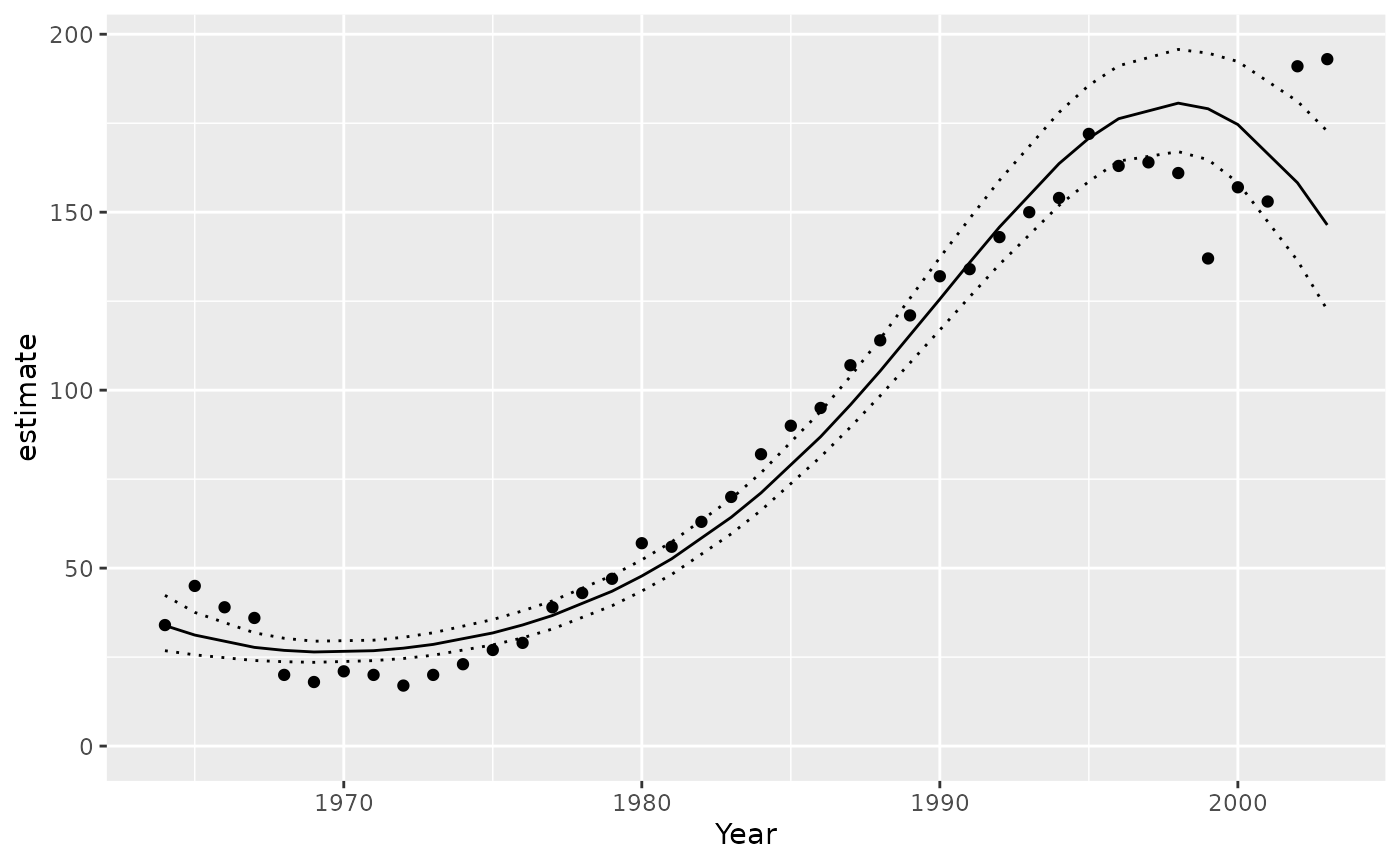
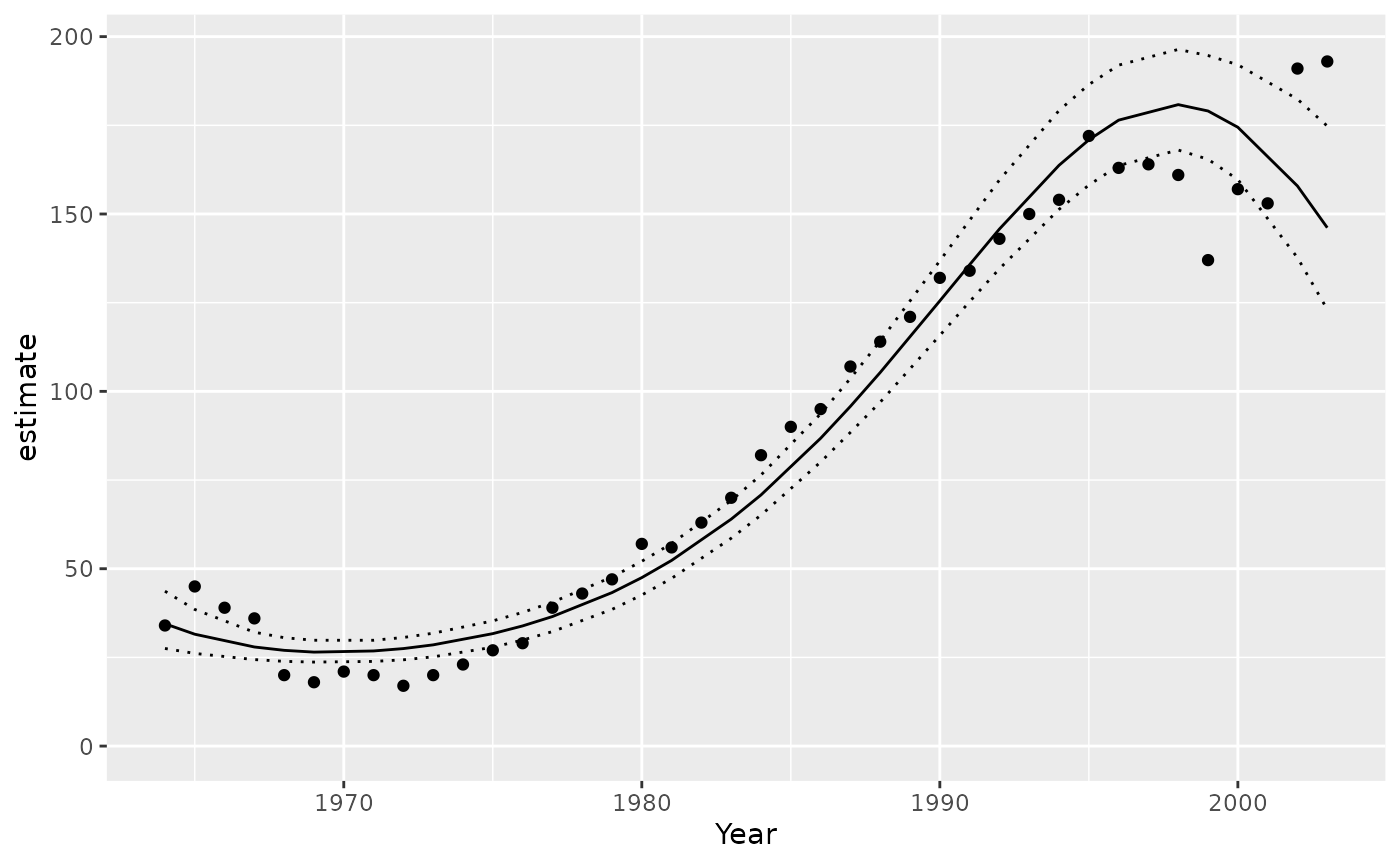
Deploying to gh-pages from @ poissonconsulting/jmbr@09f25077c4385a56795382860bf2d0ebca6aba67 🚀

diff --git a/articles/jmbr.html b/articles/jmbr.html
@@ -290,14 +290,14 @@ value and discarding all other values.</p>
 <span><span class="co">#&gt; <span style="color: #949494;"># A tibble: 1 × 8</span></span></span>
 <span><span class="co">#&gt;       n     K nchains niters nthin   ess  rhat converged</span></span>
 <span><span class="co">#&gt;   <span style="color: #949494; font-style: italic;">&lt;int&gt;</span> <span style="color: #949494; font-style: italic;">&lt;int&gt;</span>   <span style="color: #949494; font-style: italic;">&lt;int&gt;</span>  <span style="color: #949494; font-style: italic;">&lt;int&gt;</span> <span style="color: #949494; font-style: italic;">&lt;int&gt;</span> <span style="color: #949494; font-style: italic;">&lt;int&gt;</span> <span style="color: #949494; font-style: italic;">&lt;dbl&gt;</span> <span style="color: #949494; font-style: italic;">&lt;lgl&gt;</span>    </span></span>
-<span><span class="co">#&gt; <span style="color: #BCBCBC;">1</span>    40     6       3    500    10   220  1.01 TRUE</span></span>
+<span><span class="co">#&gt; <span style="color: #BCBCBC;">1</span>    40     6       3    500    10   192  1.01 TRUE</span></span>
 <span><span class="co">#&gt; Warning in value[[3L]](cond): beep() could not play the sound due to the following error:</span></span>
 <span><span class="co">#&gt; Error in play.default(x, rate, ...): no audio drivers are available</span></span>
 <span><span class="va">analysis</span> <span class="op">&lt;-</span> <span class="fu"><a href="https://rdrr.io/pkg/embr/man/reanalyse.html" class="external-link">reanalyse</a></span><span class="op">(</span><span class="va">analysis</span><span class="op">)</span></span>
 <span><span class="co">#&gt; <span style="color: #949494;"># A tibble: 1 × 8</span></span></span>
 <span><span class="co">#&gt;       n     K nchains niters nthin   ess  rhat converged</span></span>
 <span><span class="co">#&gt;   <span style="color: #949494; font-style: italic;">&lt;int&gt;</span> <span style="color: #949494; font-style: italic;">&lt;int&gt;</span>   <span style="color: #949494; font-style: italic;">&lt;int&gt;</span>  <span style="color: #949494; font-style: italic;">&lt;int&gt;</span> <span style="color: #949494; font-style: italic;">&lt;int&gt;</span> <span style="color: #949494; font-style: italic;">&lt;int&gt;</span> <span style="color: #949494; font-style: italic;">&lt;dbl&gt;</span> <span style="color: #949494; font-style: italic;">&lt;lgl&gt;</span>    </span></span>
-<span><span class="co">#&gt; <span style="color: #BCBCBC;">1</span>    40     6       3    500    10   220  1.01 TRUE</span></span>
+<span><span class="co">#&gt; <span style="color: #BCBCBC;">1</span>    40     6       3    500    10   192  1.01 TRUE</span></span>
 <span><span class="co">#&gt; Warning in value[[3L]](cond): beep() could not play the sound due to the following error:</span></span>
 <span><span class="co">#&gt; Error in play.default(x, rate, ...): no audio drivers are available</span></span></code></pre></div>
 <p><strong>Analysis Table:</strong></p>
@@ -347,12 +347,12 @@ between- and within-chain estimates for model parameters.
 <span><span class="co">#&gt; <span style="color: #949494;"># A tibble: 6 × 7</span></span></span>
 <span><span class="co">#&gt;   term        estimate     sd  zscore   lower   upper   pvalue</span></span>
 <span><span class="co">#&gt;   <span style="color: #949494; font-style: italic;">&lt;term&gt;</span>         <span style="color: #949494; font-style: italic;">&lt;dbl&gt;</span>  <span style="color: #949494; font-style: italic;">&lt;dbl&gt;</span>   <span style="color: #949494; font-style: italic;">&lt;dbl&gt;</span>   <span style="color: #949494; font-style: italic;">&lt;dbl&gt;</span>   <span style="color: #949494; font-style: italic;">&lt;dbl&gt;</span>    <span style="color: #949494; font-style: italic;">&lt;dbl&gt;</span></span></span>
-<span><span class="co">#&gt; <span style="color: #BCBCBC;">1</span> alpha         4.26   0.038<span style="text-decoration: underline;">2</span> 112.     4.19    4.34   0.000<span style="text-decoration: underline;">666</span></span></span>
-<span><span class="co">#&gt; <span style="color: #BCBCBC;">2</span> beta1         1.19   0.072<span style="text-decoration: underline;">5</span>  16.4    1.05    1.34   0.000<span style="text-decoration: underline;">666</span></span></span>
-<span><span class="co">#&gt; <span style="color: #BCBCBC;">3</span> beta2        -<span style="color: #BB0000;">0.020</span><span style="color: #BB0000; text-decoration: underline;">5</span> 0.029<span style="text-decoration: underline;">9</span>  -<span style="color: #BB0000;">0.692</span> -<span style="color: #BB0000;">0.082</span><span style="color: #BB0000; text-decoration: underline;">3</span>  0.039<span style="text-decoration: underline;">9</span> 0.487   </span></span>
-<span><span class="co">#&gt; <span style="color: #BCBCBC;">4</span> beta3        -<span style="color: #BB0000;">0.271</span>  0.037<span style="text-decoration: underline;">8</span>  -<span style="color: #BB0000;">7.16</span>  -<span style="color: #BB0000;">0.349</span>  -<span style="color: #BB0000;">0.198</span>  0.000<span style="text-decoration: underline;">666</span></span></span>
-<span><span class="co">#&gt; <span style="color: #BCBCBC;">5</span> log_sAnnual  -<span style="color: #BB0000;">2.25</span>   0.379   -<span style="color: #BB0000;">6.08</span>  -<span style="color: #BB0000;">3.27</span>   -<span style="color: #BB0000;">1.75</span>   0.000<span style="text-decoration: underline;">666</span></span></span>
-<span><span class="co">#&gt; <span style="color: #BCBCBC;">6</span> sAnnual       0.106  0.032<span style="text-decoration: underline;">9</span>   3.22   0.037<span style="text-decoration: underline;">8</span>  0.174  0.000<span style="text-decoration: underline;">666</span></span></span></code></pre></div>
+<span><span class="co">#&gt; <span style="color: #BCBCBC;">1</span> alpha         4.26   0.040<span style="text-decoration: underline;">5</span> 105.     4.18    4.34   0.000<span style="text-decoration: underline;">666</span></span></span>
+<span><span class="co">#&gt; <span style="color: #BCBCBC;">2</span> beta1         1.19   0.076<span style="text-decoration: underline;">4</span>  15.7    1.05    1.36   0.000<span style="text-decoration: underline;">666</span></span></span>
+<span><span class="co">#&gt; <span style="color: #BCBCBC;">3</span> beta2        -<span style="color: #BB0000;">0.015</span><span style="color: #BB0000; text-decoration: underline;">7</span> 0.031<span style="text-decoration: underline;">3</span>  -<span style="color: #BB0000;">0.517</span> -<span style="color: #BB0000;">0.075</span><span style="color: #BB0000; text-decoration: underline;">5</span>  0.044<span style="text-decoration: underline;">9</span> 0.596   </span></span>
+<span><span class="co">#&gt; <span style="color: #BCBCBC;">4</span> beta3        -<span style="color: #BB0000;">0.273</span>  0.039<span style="text-decoration: underline;">8</span>  -<span style="color: #BB0000;">6.92</span>  -<span style="color: #BB0000;">0.361</span>  -<span style="color: #BB0000;">0.201</span>  0.000<span style="text-decoration: underline;">666</span></span></span>
+<span><span class="co">#&gt; <span style="color: #BCBCBC;">5</span> log_sAnnual  -<span style="color: #BB0000;">2.24</span>   0.324   -<span style="color: #BB0000;">7.01</span>  -<span style="color: #BB0000;">3.06</span>   -<span style="color: #BB0000;">1.74</span>   0.000<span style="text-decoration: underline;">666</span></span></span>
+<span><span class="co">#&gt; <span style="color: #BCBCBC;">6</span> sAnnual       0.106  0.031<span style="text-decoration: underline;">9</span>   3.39   0.047<span style="text-decoration: underline;">0</span>  0.175  0.000<span style="text-decoration: underline;">666</span></span></span></code></pre></div>
 <p>The estimate is the <strong>median</strong> by default.</p>
 <p>The zscore is <span class="math inline">\(mean / sd\)</span>.</p>
 <div class="sourceCode" id="cb12"><pre class="downlit sourceCode r">
@@ -360,12 +360,12 @@ between- and within-chain estimates for model parameters.
 <span><span class="co">#&gt; <span style="color: #949494;"># A tibble: 6 × 5</span></span></span>
 <span><span class="co">#&gt;   term        estimate   lower   upper svalue</span></span>
 <span><span class="co">#&gt;   <span style="color: #949494; font-style: italic;">&lt;term&gt;</span>         <span style="color: #949494; font-style: italic;">&lt;dbl&gt;</span>   <span style="color: #949494; font-style: italic;">&lt;dbl&gt;</span>   <span style="color: #949494; font-style: italic;">&lt;dbl&gt;</span>  <span style="color: #949494; font-style: italic;">&lt;dbl&gt;</span></span></span>
-<span><span class="co">#&gt; <span style="color: #BCBCBC;">1</span> alpha         4.26    4.19    4.34    10.6 </span></span>
-<span><span class="co">#&gt; <span style="color: #BCBCBC;">2</span> beta1         1.19    1.05    1.34    10.6 </span></span>
-<span><span class="co">#&gt; <span style="color: #BCBCBC;">3</span> beta2        -<span style="color: #BB0000;">0.020</span><span style="color: #BB0000; text-decoration: underline;">5</span> -<span style="color: #BB0000;">0.082</span><span style="color: #BB0000; text-decoration: underline;">3</span>  0.039<span style="text-decoration: underline;">9</span>   1.04</span></span>
-<span><span class="co">#&gt; <span style="color: #BCBCBC;">4</span> beta3        -<span style="color: #BB0000;">0.271</span>  -<span style="color: #BB0000;">0.349</span>  -<span style="color: #BB0000;">0.198</span>   10.6 </span></span>
-<span><span class="co">#&gt; <span style="color: #BCBCBC;">5</span> log_sAnnual  -<span style="color: #BB0000;">2.25</span>   -<span style="color: #BB0000;">3.27</span>   -<span style="color: #BB0000;">1.75</span>    10.6 </span></span>
-<span><span class="co">#&gt; <span style="color: #BCBCBC;">6</span> sAnnual       0.106   0.037<span style="text-decoration: underline;">8</span>  0.174   10.6</span></span></code></pre></div>
+<span><span class="co">#&gt; <span style="color: #BCBCBC;">1</span> alpha         4.26    4.18    4.34   10.6  </span></span>
+<span><span class="co">#&gt; <span style="color: #BCBCBC;">2</span> beta1         1.19    1.05    1.36   10.6  </span></span>
+<span><span class="co">#&gt; <span style="color: #BCBCBC;">3</span> beta2        -<span style="color: #BB0000;">0.015</span><span style="color: #BB0000; text-decoration: underline;">7</span> -<span style="color: #BB0000;">0.075</span><span style="color: #BB0000; text-decoration: underline;">5</span>  0.044<span style="text-decoration: underline;">9</span>  0.746</span></span>
+<span><span class="co">#&gt; <span style="color: #BCBCBC;">4</span> beta3        -<span style="color: #BB0000;">0.273</span>  -<span style="color: #BB0000;">0.361</span>  -<span style="color: #BB0000;">0.201</span>  10.6  </span></span>
+<span><span class="co">#&gt; <span style="color: #BCBCBC;">5</span> log_sAnnual  -<span style="color: #BB0000;">2.24</span>   -<span style="color: #BB0000;">3.06</span>   -<span style="color: #BB0000;">1.74</span>   10.6  </span></span>
+<span><span class="co">#&gt; <span style="color: #BCBCBC;">6</span> sAnnual       0.106   0.047<span style="text-decoration: underline;">0</span>  0.175  10.6</span></span></code></pre></div>
 <p>The s-value is the <strong>suprisal</strong> value, which is a
 measure of directionality with respect to zero.</p>
 <p>The s-value is zero (unsurprising) when <em>p-value</em> = 1.0 and
